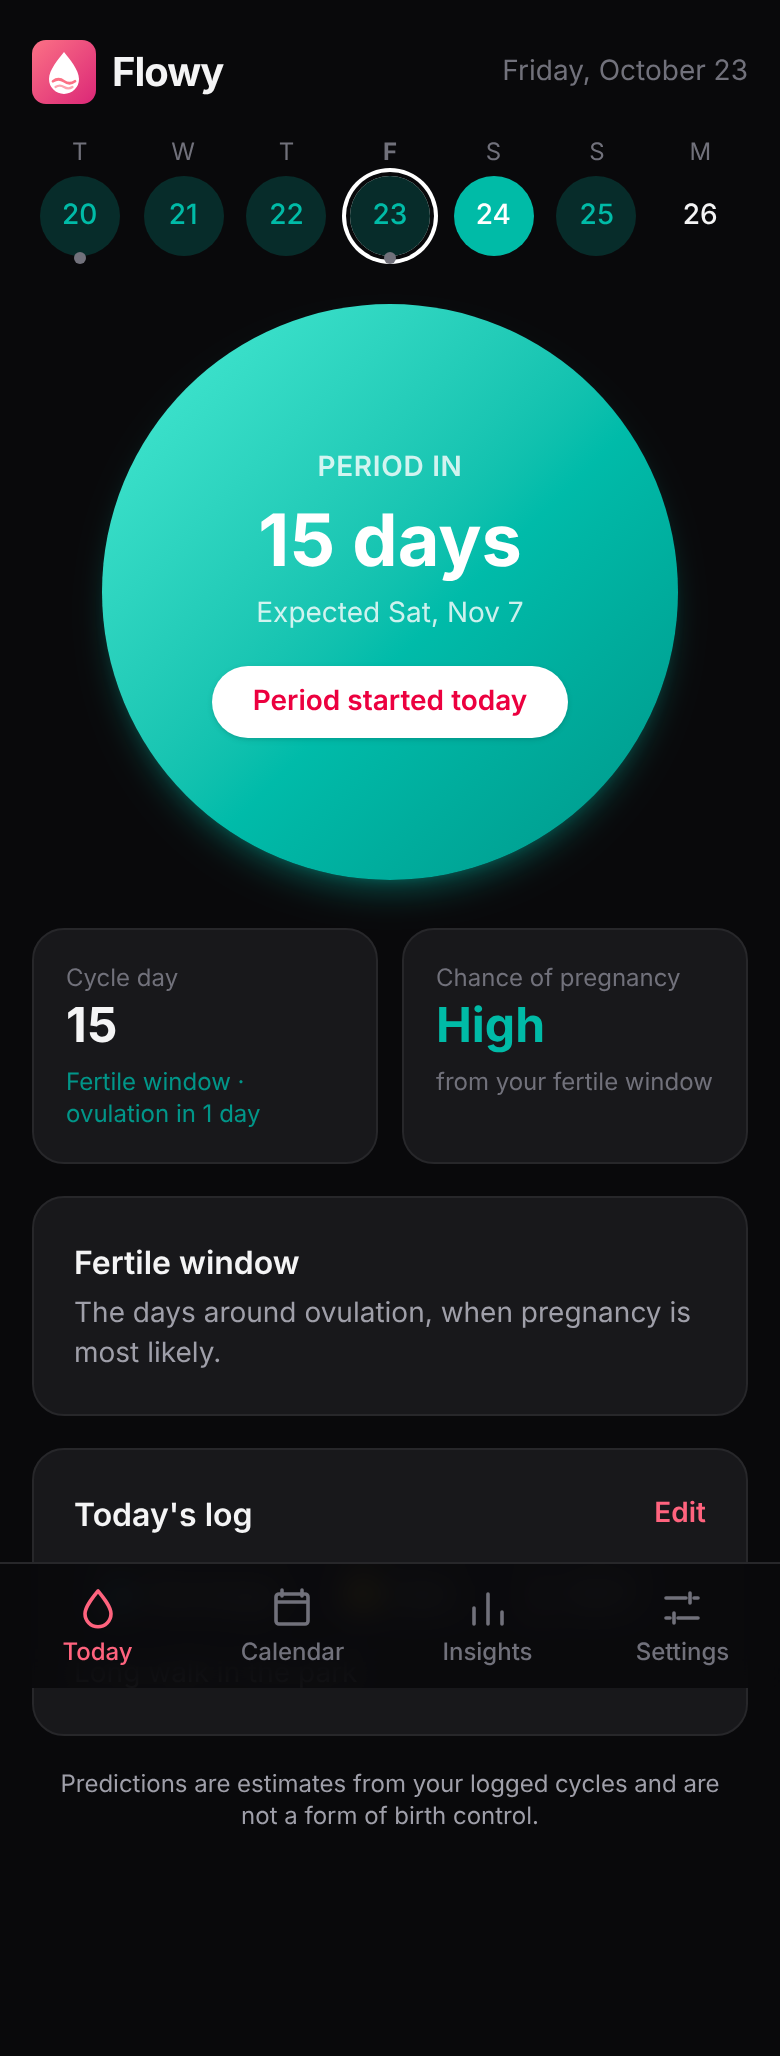
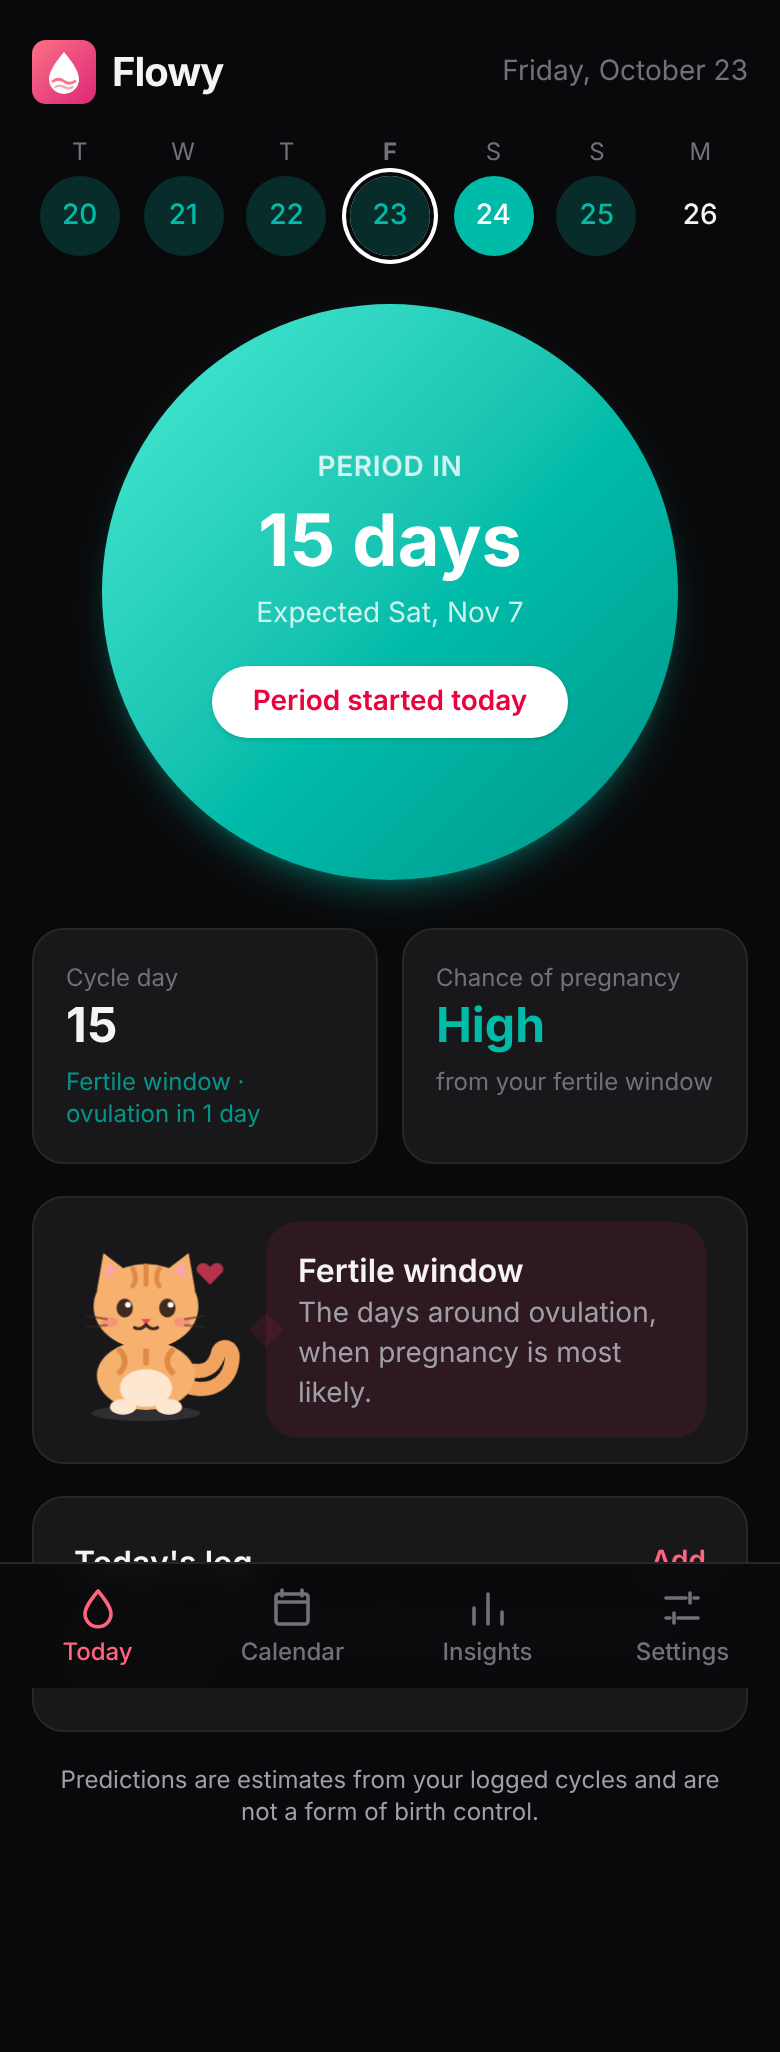
Add Mochi, an animated cat on the today screen
It naps during a period, plays in the follicular phase, sends hearts in
the fertile window and curls up in the luteal phase, next to a tip for
the phase. Tapping it makes it jump; it holds still for people who prefer
reduced motion.

diff --git a/web/src/components/Cat.svelte b/web/src/components/Cat.svelte
@@ -1,0 +1,211 @@
+<script lang="ts">
+  import type { CyclePhase } from '../lib/cycle';
+
+  // Mochi, the cat on the today screen. It naps during a period, plays in the
+  // follicular phase, sends hearts in the fertile window and curls up before the
+  // next period. Tap it for a little jump.
+  let { phase }: { phase: CyclePhase | null } = $props();
+
+  const mood = $derived(
+    phase === 'menstrual'
+      ? 'sleepy'
+      : phase === 'fertile'
+        ? 'love'
+        : phase === 'luteal'
+          ? 'cozy'
+          : 'happy',
+  );
+
+  let jumping = $state(false);
+  function tap() {
+    jumping = false;
+    requestAnimationFrame(() => (jumping = true));
+  }
+</script>
+
+<button
+  class="cat {mood} shrink-0"
+  class:jumping
+  onclick={tap}
+  onanimationend={(e) => e.animationName.endsWith('jump') && (jumping = false)}
+  aria-label="Mochi the cat"
+>
+  <svg viewBox="0 0 120 120" class="size-24" aria-hidden="true">
+    <ellipse cx="60" cy="112" rx="34" ry="5" class="fill-zinc-900/10 dark:fill-white/10" />
+    <g class="body">
+      <path
+        class="tail"
+        d="M88 96c14 0 22-10 20-24-1-7-8-8-9-2 0 8-3 14-12 15"
+        fill="none"
+        stroke="#f2a35e"
+        stroke-width="9"
+        stroke-linecap="round"
+      />
+      <ellipse cx="60" cy="88" rx="30" ry="22" fill="#f6b16e" />
+      <path
+        d="M44 72c4 4 4 10 0 14M60 68v12M76 72c-4 4-4 10 0 14"
+        stroke="#e08b45"
+        stroke-width="3.5"
+        stroke-linecap="round"
+        fill="none"
+      />
+      <ellipse cx="60" cy="96" rx="16" ry="12" fill="#fde7d0" />
+      <ellipse cx="46" cy="108" rx="8" ry="5" fill="#fde7d0" />
+      <ellipse cx="74" cy="108" rx="8" ry="5" fill="#fde7d0" />
+      <g class="head">
+        <path d="M30 34 34 10l20 16ZM90 34 86 10 66 26Z" fill="#f6b16e" />
+        <path d="M35 28 37 16l9 8ZM85 28l-2-12-9 8Z" fill="#fda4af" />
+        <ellipse cx="60" cy="44" rx="32" ry="27" fill="#f6b16e" />
+        <path
+          d="M52 20c2 4 2 8 0 11M60 18v12M68 20c-2 4-2 8 0 11"
+          stroke="#e08b45"
+          stroke-width="3"
+          stroke-linecap="round"
+          fill="none"
+        />
+        {#if mood === 'sleepy'}
+          <path
+            d="M41 46q6 5 12 0M67 46q6 5 12 0"
+            stroke="#3f2a1d"
+            stroke-width="3"
+            stroke-linecap="round"
+            fill="none"
+          />
+        {:else if mood === 'cozy'}
+          <path d="M41 45h12M67 45h12" stroke="#3f2a1d" stroke-width="3" stroke-linecap="round" />
+          <path
+            d="M42 48q5 3 10 0M68 48q5 3 10 0"
+            stroke="#3f2a1d"
+            stroke-width="2"
+            stroke-linecap="round"
+            fill="none"
+          />
+        {:else}
+          <g class="eyes">
+            <ellipse cx="47" cy="45" rx="5" ry="6" fill="#3f2a1d" />
+            <ellipse cx="73" cy="45" rx="5" ry="6" fill="#3f2a1d" />
+            <circle cx="49" cy="43" r="1.8" fill="#fff" />
+            <circle cx="75" cy="43" r="1.8" fill="#fff" />
+          </g>
+        {/if}
+        <ellipse cx="38" cy="54" rx="5" ry="3" fill="#fb7185" opacity=".45" />
+        <ellipse cx="82" cy="54" rx="5" ry="3" fill="#fb7185" opacity=".45" />
+        <path d="M57 52h6l-3 3.5Z" fill="#f43f5e" />
+        <path
+          d="M60 55.5q-3 4-7 2M60 55.5q3 4 7 2"
+          stroke="#3f2a1d"
+          stroke-width="2"
+          stroke-linecap="round"
+          fill="none"
+        />
+        <path
+          d="M24 50l12 2M24 57l12-1M96 50l-12 2M96 57l-12-1"
+          stroke="#3f2a1d"
+          stroke-width="1.5"
+          stroke-linecap="round"
+          opacity=".5"
+        />
+      </g>
+    </g>
+    {#if mood === 'sleepy'}
+      <g class="zzz fill-zinc-400 font-bold">
+        <text x="92" y="24" font-size="12">z</text>
+        <text x="100" y="14" font-size="9">z</text>
+      </g>
+    {:else if mood === 'love'}
+      <path class="heart" d="M100 26c-3-5-10-2-8 3l8 8 8-8c2-5-5-8-8-3Z" fill="#f43f5e" />
+    {/if}
+  </svg>
+</button>
+
+<style>
+  .body {
+    transform-origin: 60px 110px;
+    animation: breathe 3s ease-in-out infinite;
+  }
+  .tail {
+    transform-origin: 88px 96px;
+    animation: wag 2.4s ease-in-out infinite;
+  }
+  .happy .tail,
+  .love .tail {
+    animation-duration: 0.9s;
+  }
+  .sleepy .tail,
+  .cozy .tail {
+    animation-duration: 4s;
+  }
+  .eyes {
+    transform-origin: 60px 45px;
+    animation: blink 4s infinite;
+  }
+  .sleepy .head {
+    transform-origin: 60px 70px;
+    transform: rotate(-6deg) translateY(3px);
+  }
+  .zzz text {
+    animation: float 3s ease-in-out infinite;
+  }
+  .zzz text + text {
+    animation-delay: 1.2s;
+  }
+  .heart {
+    transform-origin: 100px 30px;
+    animation: float 2s ease-in-out infinite;
+  }
+  .jumping svg {
+    animation: jump 0.6s ease-out;
+  }
+
+  @keyframes breathe {
+    50% {
+      transform: scale(1.025, 0.98);
+    }
+  }
+  @keyframes wag {
+    0%,
+    100% {
+      transform: rotate(-8deg);
+    }
+    50% {
+      transform: rotate(14deg);
+    }
+  }
+  @keyframes blink {
+    0%,
+    92%,
+    100% {
+      transform: scaleY(1);
+    }
+    95% {
+      transform: scaleY(0.1);
+    }
+  }
+  @keyframes float {
+    0% {
+      opacity: 0;
+      transform: translateY(6px);
+    }
+    40% {
+      opacity: 1;
+    }
+    100% {
+      opacity: 0;
+      transform: translateY(-10px);
+    }
+  }
+  @keyframes jump {
+    30% {
+      transform: translateY(-18px) scale(1.04, 0.96);
+    }
+    60% {
+      transform: translateY(0) scale(1.06, 0.92);
+    }
+  }
+
+  @media (prefers-reduced-motion: reduce) {
+    .cat * {
+      animation: none !important;
+    }
+  }
+</style>

diff --git a/web/src/components/Today.svelte b/web/src/components/Today.svelte
@@ -3,6 +3,7 @@
   import { days, formatDay } from '../lib/format';
   import { moods, symptoms } from '../lib/log';
   import { tracker } from '../lib/tracker.svelte';
+  import Cat from './Cat.svelte';
   import DayDot from './DayDot.svelte';
 
   let { onlog }: { onlog: (date: string) => void } = $props();
@@ -155,12 +156,20 @@
   </section>
 </div>
 
-{#if phaseNow}
-  <section class="card flex flex-col gap-1">
-    <h2 class="font-semibold">{phaseInfo[phaseNow].title}</h2>
-    <p class="text-sm text-zinc-600 dark:text-zinc-400">{phaseInfo[phaseNow].text}</p>
-  </section>
-{/if}
+<section class="card flex items-center gap-3 py-3 pl-2">
+  <Cat phase={phaseNow} />
+  <div class="relative rounded-2xl bg-brand-50 px-4 py-3 dark:bg-brand-500/10">
+    <span
+      class="absolute top-1/2 -left-1.5 size-3 -translate-y-1/2 rotate-45 bg-brand-50 dark:bg-brand-500/10"
+    ></span>
+    <h2 class="font-semibold">{phaseNow ? phaseInfo[phaseNow].title : 'Hi, I’m Mochi!'}</h2>
+    <p class="text-sm text-zinc-600 dark:text-zinc-400">
+      {phaseNow
+        ? phaseInfo[phaseNow].text
+        : 'Log your period and I’ll keep track of your cycle with you.'}
+    </p>
+  </div>
+</section>
 
 <section class="card flex flex-col gap-3">
   <div class="flex items-center justify-between">

diff --git a/README.md b/README.md
@@ -18,6 +18,8 @@ small server). Install it on your phone from the browser.
 
 - **Today:** days until your period (or which day of it you're on, or how late it
   is), cycle day, chance of pregnancy, the phase you're in, and today's log.
+- **Mochi:** an animated cat that naps during your period, plays, sends hearts in
+  your fertile window and curls up before your next period, with a tip for each phase.
 - **Calendar:** logged periods, predicted periods, fertile days and ovulation.
   Tap a day to log it, or edit period days in one go.
 - **Day log:** flow, symptoms, moods, sex, pill, temperature, weight and notes.
